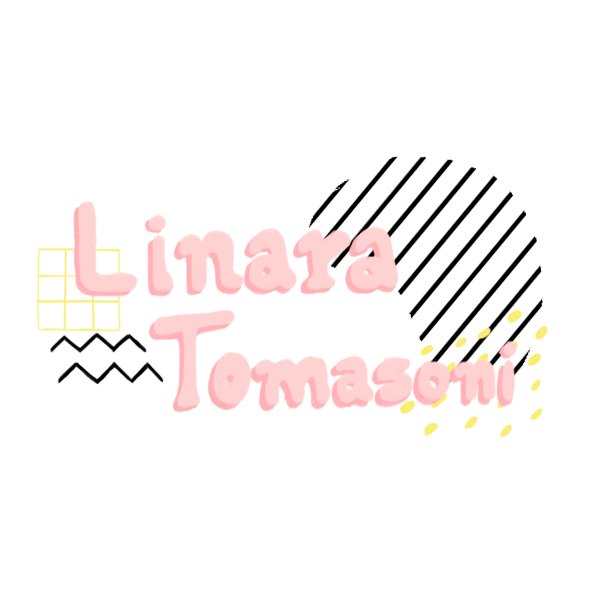
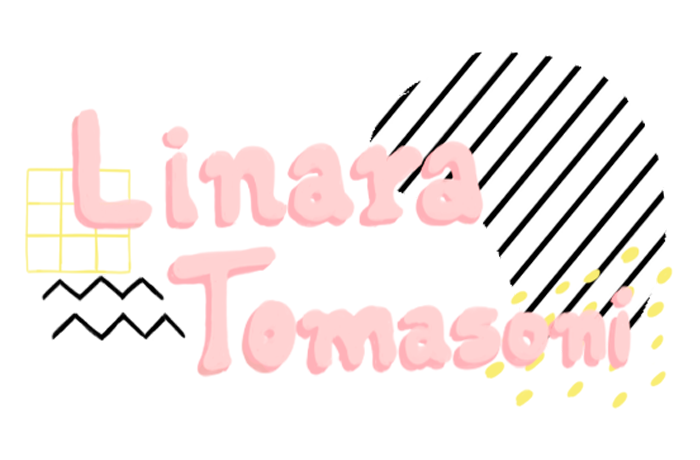
fix: navegação e foto de capa

diff --git a/components/Header/index.tsx b/components/Header/index.tsx
@@ -1,8 +1,24 @@
 import { useState } from 'react';
 import Image from 'next/image';
+import clsx from 'clsx';
+import { useRouter } from 'next/router';
 import Burguer from '../Burguer';
 import Menu from '../Menu';
 import styles from './styles.module.css';
+
+function isRouteActive(url: string) {
+  const router = useRouter();
+
+  return router.pathname === url;
+}
+
+function Link({ url, desc }: { url: string; desc: string }) {
+  return (
+    <a className={clsx({ [styles.active]: isRouteActive(url) })} href={url}>
+      {desc}
+    </a>
+  );
+}
 
 const Header = (): React.ReactElement => {
   const [open, setOpen] = useState<boolean>(false);
@@ -12,19 +28,19 @@ const Header = (): React.ReactElement => {
         <Menu open={open} />
         <Burguer open={open} setOpen={setOpen} />
       </div>
-      <Image width={600} height={600} src="/images/capa.png" layout="intrinsic" />
+      <Image width={700} height={460} src="/images/capa.png" layout="intrinsic" />
       <ul className={styles.links}>
         <li>
-          <a href="/">Home</a>
+          <Link url="/" desc="Home" />
         </li>
         <li>
-          <a href="/designs">Designs</a>
+          <Link url="/designs" desc="Designs" />
         </li>
         <li>
-          <a href="/illustrations">Ilustrações</a>
+          <Link url="/illustrations" desc="Ilustrações" />
         </li>
         <li>
-          <a href="/">Sobre</a>
+          <Link url="/about" desc="Sobre" />
         </li>
       </ul>
     </header>

diff --git a/components/Header/styles.module.css b/components/Header/styles.module.css
@@ -15,6 +15,8 @@
 }
 
 .links {
+  margin: 0;
+  padding: 0;
   display: flex;
   justify-content: center;
   flex-direction: row;
@@ -27,8 +29,12 @@
 
 .links li a {
   text-decoration: none;
-  color: var(--pink);
+  color: var(--black);
+  font-weight: 300;
   font-size: 1.3rem;
+}
+.links li a.active {
+  font-weight: 600;
 }
 
 .links li a:hover {
@@ -38,5 +44,8 @@
 @media only screen and (max-width: 576px) {
   .links {
     display: none;
+  }
+  .header {
+    margin-top: 60px;
   }
 }

diff --git a/components/Menu/styles.module.css b/components/Menu/styles.module.css
@@ -23,8 +23,8 @@
   font-size: 1.5rem;
   text-align: center;
   text-transform: uppercase;
-  padding: 2rem 0;
-  letter-spacing: 0.5rem;
+  padding: 1.2rem 0;
+  letter-spacing: 0.3rem;
   color: var(--dark);
   text-decoration: none;
   transition: color 0.3s linear;

diff --git a/components/ResponsiveGridContent/styles.module.css b/components/ResponsiveGridContent/styles.module.css
@@ -1,7 +1,7 @@
 .container {
   display: flex;
   justify-content: center;
-  margin-top: 50px;
+  margin-top: 100px;
 }
 
 .content {
